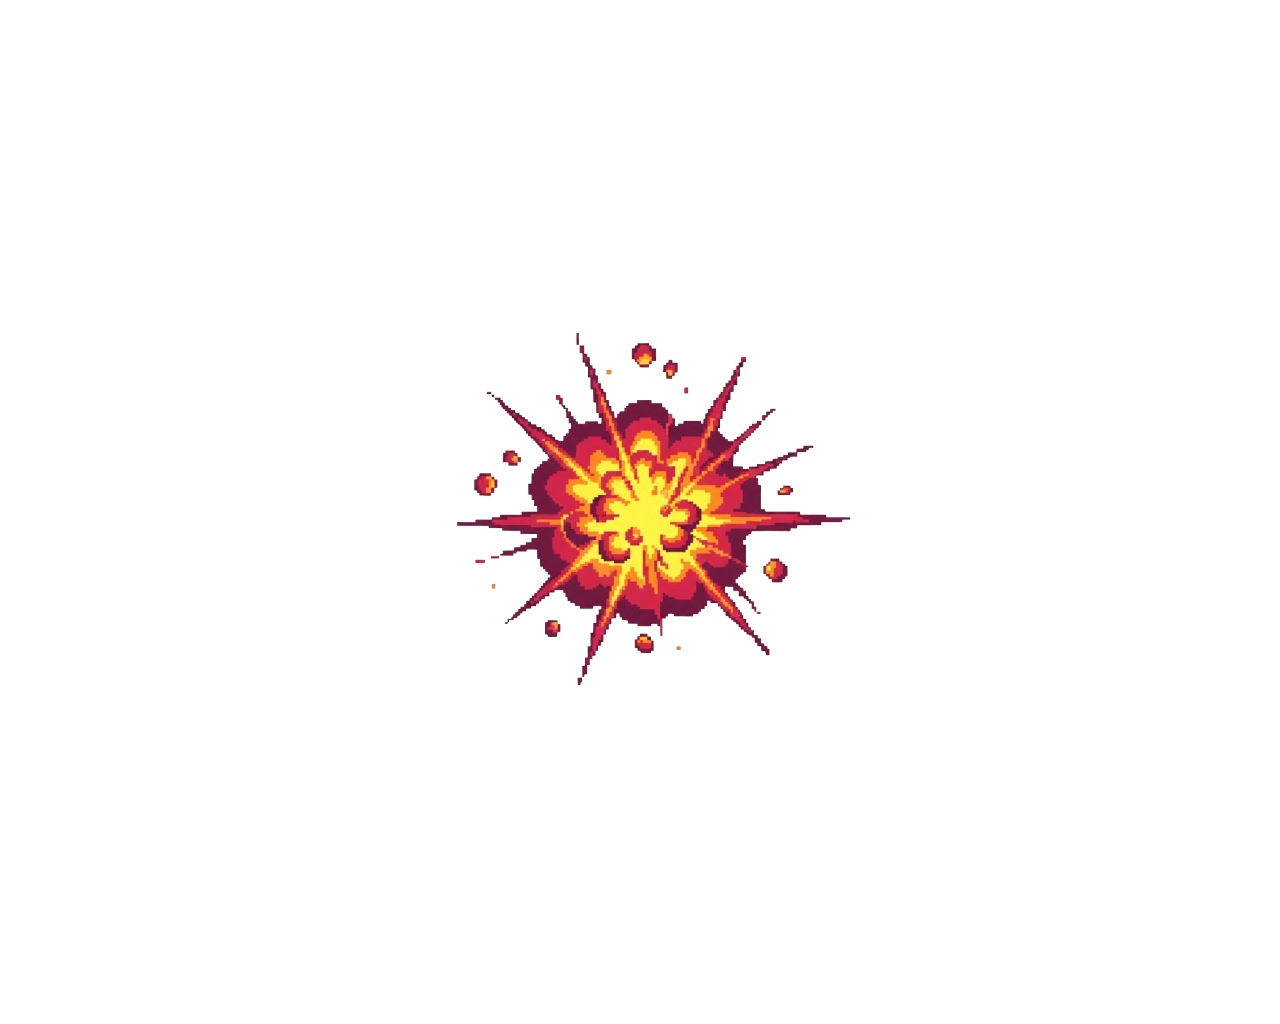
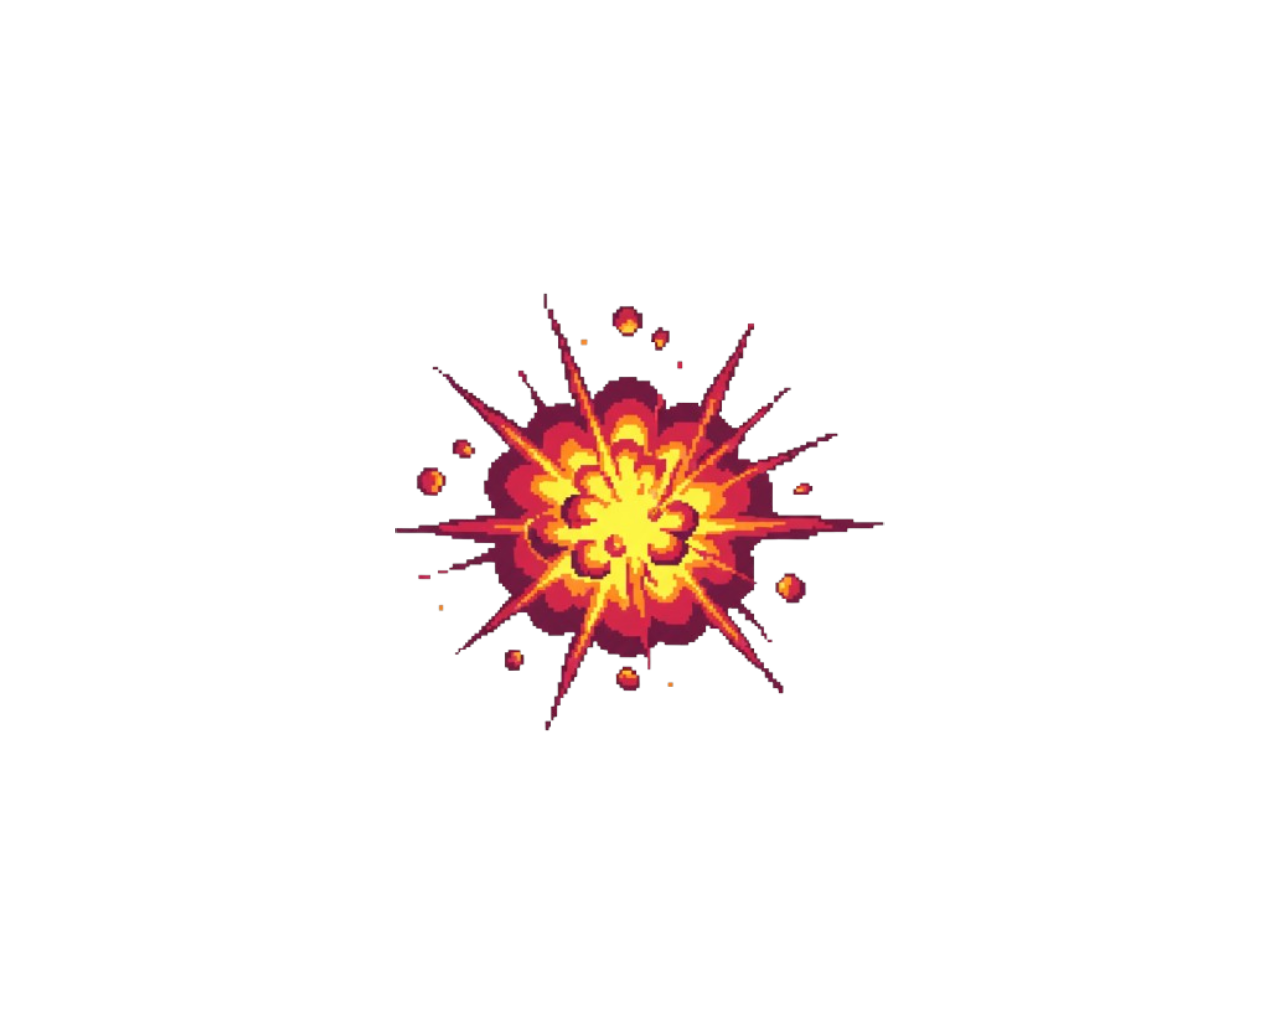
Warden: normalización de sprites y corrección de animaciones Hit y Dead

Changed region(s): [[0.3125, 0.2812, 0.6875, 0.6875], [0.625, 0.4062, 0.6562, 0.4375], [0.4062, 0.6875, 0.4375, 0.7188]]

diff --git a/Assets/Script/Enemies/EnemyController.cs b/Assets/Script/Enemies/EnemyController.cs
@@ -1,27 +1,62 @@
 using UnityEngine;
+using System.Collections;
 
 public class EnemyController : MonoBehaviour
 {
     public int maxHealth = 3;
     private int currentHealth;
 
+    private Animator animator;
+    private bool isDead;
+
     void Awake()
     {
         currentHealth = maxHealth;
+        animator = GetComponentInChildren<Animator>();
+
+        if (animator == null)
+            Debug.LogError("[EnemyController] Animator no encontrado en el enemigo.");
     }
 
     public void TakeDamage(int damage)
     {
+        if (isDead) return;
+
         currentHealth -= damage;
 
+        if (animator != null)
+            animator.SetTrigger("Hit");
+
         if (currentHealth <= 0)
-        {
             Die();
-        }
     }
 
     void Die()
     {
+        if (isDead) return;
+        isDead = true;
+
+        // Desactivar comportamiento del enemigo
+        var ai = GetComponent<WardenAI>();
+        if (ai) ai.enabled = false;
+
+        var movement = GetComponent<EnemyMovement>();
+        if (movement) movement.enabled = false;
+
+        if (animator != null)
+        {
+            animator.ResetTrigger("Hit");
+            animator.SetBool("Moving", false);
+            animator.SetBool("Shoot", false);
+            animator.SetTrigger("Dead");
+        }
+
+        StartCoroutine(DestroyAfterDeath());
+    }
+
+    IEnumerator DestroyAfterDeath()
+    {
+        yield return new WaitForSeconds(1.5f);
         Destroy(gameObject);
     }
 }
